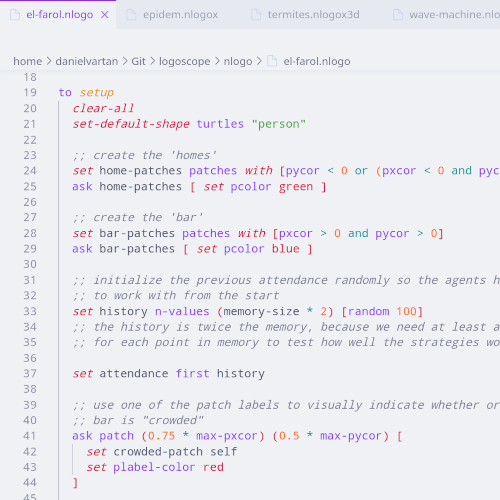
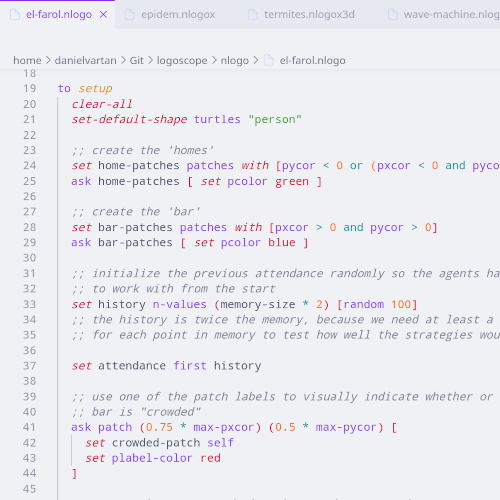
Update code screenshot

diff --git a/README.md b/README.md
@@ -18,7 +18,7 @@
 
 ![NetLogo Syntax Highlighting](images/code.png)
 
-<sub>Theme: [Catppuccin](https://catppuccin.com/) Frappé.</sub>
+<sub>Theme: [Catppuccin](https://catppuccin.com/) Latte.</sub>
 
 ## Installation
 
